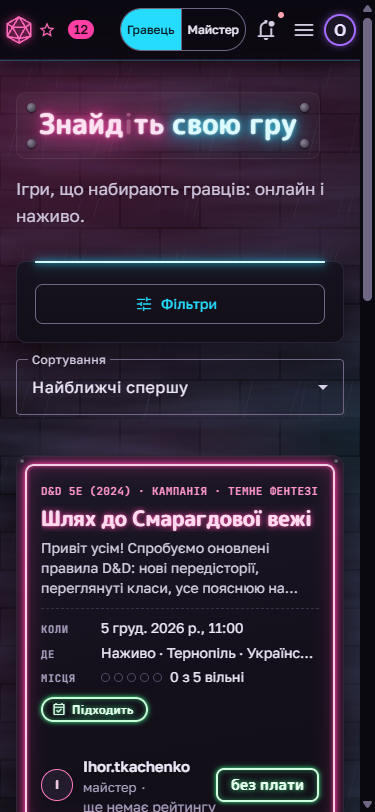
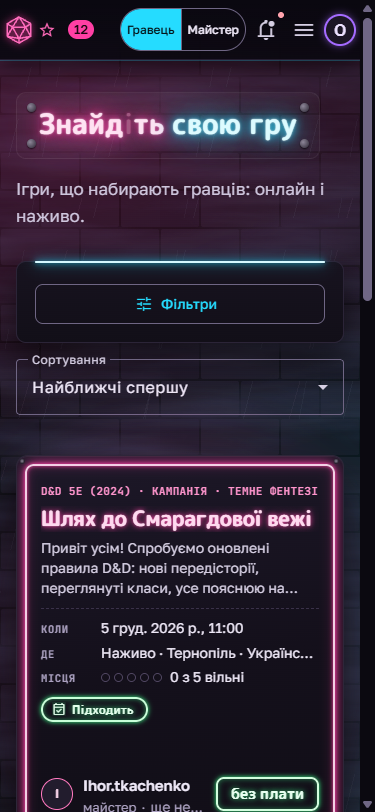
fix(frontend): cyber sign heading text once; GM line stays inside the card
The sign heading's split neon spans are now its only content (no hidden
duplicate), so copy, find and innerText give the title once; the h1 has an
aria-label with the whole title. The cyber GM signature's role line is a single
line with an ellipsis and a truncate tooltip, so «майстер · ще немає рейтингу»
no longer drops below the card frame. Neon signs: tube inner glow 12px; notes
on the shared breakpoint and the poster caption tint.

Changed region(s): [[0.088, 0.9236, 0.88, 1.0]]

diff --git a/frontend/src/app/theming/themes/cyber/page-header/cyber-page-header.html b/frontend/src/app/theming/themes/cyber/page-header/cyber-page-header.html
@@ -1,20 +1,18 @@
 <header class="page-header">
   <div class="heading">
-    <!-- Вивіска: заголовок на пластині (вигляд пластини й неону — у бандлі дизайну). Читачі
-         екрана чують звичайний текст заголовка; видимий — той самий текст, поділений на
-         частини для неону (перше слово, решта, «напівмертва» літера), прихований від них. -->
+    <!-- Вивіска: заголовок на пластині (вигляд пластини й неону — у бандлі дизайну). Текст
+         заголовка поділено на частини для неону (перше слово, решта, «напівмертва» літера) без
+         пробілів між елементами — копіювання й пошук дають звичайний текст; ім'я для читачів
+         екрана — цілим рядком (aria-label). -->
     @let title = titleKey() | translate;
     @let p = parts(title);
     <div class="sign cy-sign">
       <span class="cy-screw" aria-hidden="true"></span>
-      <h1 class="cy-sign-title">
-        <span class="nri-visually-hidden">{{ title }}</span>
-        <span class="cy-sign-lit" aria-hidden="true"
-          ><span class="cy-sign-w1"
-            >{{ p.before }}<span class="cy-sign-dead">{{ p.dead }}</span
-            >{{ p.after }}</span
-          ><span class="cy-sign-w2">{{ p.rest }}</span></span
-        >
+      <h1 class="cy-sign-title" [attr.aria-label]="title">
+        <span class="cy-sign-w1"
+          >{{ p.before }}<span class="cy-sign-dead">{{ p.dead }}</span
+          >{{ p.after }}</span
+        ><span class="cy-sign-w2">{{ p.rest }}</span>
       </h1>
     </div>
     @if (leadKey(); as lead) {

diff --git a/frontend/src/app/theming/themes/cyber/page-header/cyber-page-header.spec.ts b/frontend/src/app/theming/themes/cyber/page-header/cyber-page-header.spec.ts
@@ -27,7 +27,7 @@ describe('signParts', () => {
 });
 
 describe('CyberPageHeader (slot «page-header»)', () => {
-  it('screen readers get the plain heading text; the split neon letters are hidden', async () => {
+  it('the heading text is the title once; screen readers get it as one string', async () => {
     await TestBed.configureTestingModule({
       imports: [CyberPageHeader],
       providers: [provideRouter([]), provideTranslateService()],
@@ -42,12 +42,10 @@ describe('CyberPageHeader (slot «page-header»)', () => {
     fixture.detectChanges();
 
     const h1 = (fixture.nativeElement as HTMLElement).querySelector('h1')!;
-    const plain = h1.querySelector('.nri-visually-hidden')!;
-    expect(plain.textContent).toBe('Знайдіть свою гру');
-    expect(plain.closest('[aria-hidden]')).toBeNull();
-    const lit = h1.querySelector('.cy-sign-lit')!;
-    expect(lit.getAttribute('aria-hidden')).toBe('true');
-    expect(lit.textContent).toBe('Знайдіть свою гру');
-    expect(lit.querySelector('.cy-sign-dead')!.textContent).toBe('і');
+    // Копіювання, пошук на сторінці, innerText — один раз, без зайвих пробілів між частинами.
+    expect(h1.textContent!.trim()).toBe('Знайдіть свою гру');
+    expect(h1.getAttribute('aria-label')).toBe('Знайдіть свою гру');
+    expect(h1.querySelector('[aria-hidden], .nri-visually-hidden')).toBeNull();
+    expect(h1.querySelector('.cy-sign-dead')!.textContent).toBe('і');
   });
 });

diff --git a/frontend/src/app/theming/themes/neon-signs/neon-signs.less b/frontend/src/app/theming/themes/neon-signs/neon-signs.less
@@ -316,11 +316,12 @@
       border-radius: 9px;
       background: none;
       opacity: 0.95;
+      // Внутрішній відсвіт (12px) — не далі за поля панелі: відтінок не лягає під текст.
       box-shadow:
         0 0 4px var(--cy-n),
         0 0 14px var(--cy-n),
         inset 0 0 4px var(--cy-n),
-        inset 0 0 18px color-mix(in srgb, var(--cy-n) 28%, transparent);
+        inset 0 0 12px color-mix(in srgb, var(--cy-n) 28%, transparent);
       transition: box-shadow var(--nri-transition);
     }
   }
@@ -365,7 +366,7 @@
           0 0 5px var(--cy-n),
           0 0 20px var(--cy-n),
           inset 0 0 5px var(--cy-n),
-          inset 0 0 22px color-mix(in srgb, var(--cy-n) 34%, transparent);
+          inset 0 0 12px color-mix(in srgb, var(--cy-n) 34%, transparent);
       }
     }
 
@@ -494,7 +495,9 @@
         pointer-events: none;
       }
 
-      // Відблиск і відсвіт неону гри на папері.
+      // Відблиск і відсвіт неону гри на папері (screen-змішування лягає й на підпис
+      // «ОБКЛАДИНКА» — він декоративний, aria-hidden; ім'я вкладення — в aria-label кнопки, а
+      // контраст підпису в спокої — у шапці файлу, на притемненому папері 4.9).
       &::after {
         content: '';
         position: absolute;

diff --git a/frontend/src/app/theming/themes/cyber/page-header/cyber-page-header.ts b/frontend/src/app/theming/themes/cyber/page-header/cyber-page-header.ts
@@ -39,9 +39,9 @@ export function signParts(text: string): SignParts {
 
 /**
  * Слот `page-header` кібер-родини: заголовок-вивіска (пластина з неоновими літерами — у
- * бандлі дизайну, `.cy-sign`), підзаголовок під нею і кнопки праворуч. Видимі літери вивіски
- * поділено на частини (`signParts`) і приховано від читачів екрана — ті чують заголовок
- * звичайним текстом (`nri-visually-hidden`).
+ * бандлі дизайну, `.cy-sign`), підзаголовок під нею і кнопки праворуч. Літери вивіски поділено
+ * на частини (`signParts`) — це єдиний вміст заголовка (копіювання / пошук дають звичайний
+ * текст); читачі екрана чують його цілим рядком (`aria-label`).
  */
 @Component({
   selector: 'nri-cy-page-header',

diff --git a/frontend/src/app/theming/themes/cyber/gm-signature/cyber-gm-signature.less b/frontend/src/app/theming/themes/cyber/gm-signature/cyber-gm-signature.less
@@ -55,14 +55,21 @@
   }
 }
 
+// «майстер · ★ рейтинг» — завжди один рядок (висота картки стала): що не вміщається — «…»
+// (повний текст — у підказці).
 .role {
-  display: flex;
-  flex-wrap: wrap;
-  align-items: center;
-  gap: 0 5px;
+  display: block;
+  min-width: 0;
+  overflow: hidden;
   color: var(--cy-ink-muted);
   font-size: 0.8125rem;
   line-height: 1.4;
+  text-overflow: ellipsis;
+  white-space: nowrap;
+
+  > * + * {
+    margin-left: 5px;
+  }
 
   // Зірка рейтингу (колір — --nri-accent-text) — бурштинова, як у макеті.
   --nri-accent-text: var(--cy-amber);

diff --git a/frontend/src/app/theming/themes/cyber/gm-signature/cyber-gm-signature.html b/frontend/src/app/theming/themes/cyber/gm-signature/cyber-gm-signature.html
@@ -18,7 +18,15 @@
         <nri-blocked-badge />
       }
     </span>
-    <small class="role">
+    <!-- Один рядок з «…»: без рейтингу «майстер · ще немає рейтингу» на вузькій картці не
+         вміщається (повний текст — у підказці). -->
+    @let none = g.showRating && g.rating === null;
+    <small
+      class="role"
+      [nriTruncateTooltip]="
+        none ? ('cyber.gm' | translate) + ' · ' + ('ratings.gmRating.none' | translate) : ''
+      "
+    >
       <span aria-hidden="true">{{ 'cyber.gm' | translate }}</span>
       @if (g.showRating) {
         <span aria-hidden="true">·</span>

diff --git a/frontend/src/app/theming/themes/cyber/cyber-base.less b/frontend/src/app/theming/themes/cyber/cyber-base.less
@@ -291,6 +291,8 @@
 
   // Вузький екран: сторінка робить фільтри статичними — повертаємо `relative` для трубки, але
   // без зсуву `top`, який лишився від липкого положення (інакше панель налазить на сортування).
+  // Межа 899.98px — та сама, що в features/search/search-page/search-page.less (медіазапит, у
+  // якому фільтри стають статичними): міняти разом.
   @media (max-width: 899.98px) {
     .nri-page.nri-board .nri-panel {
       position: relative;
